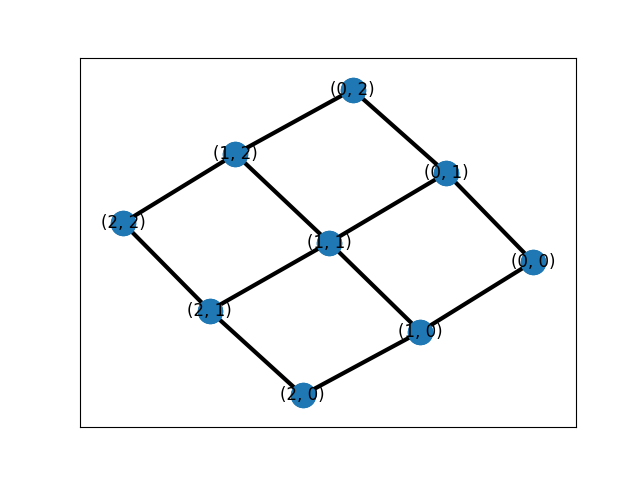
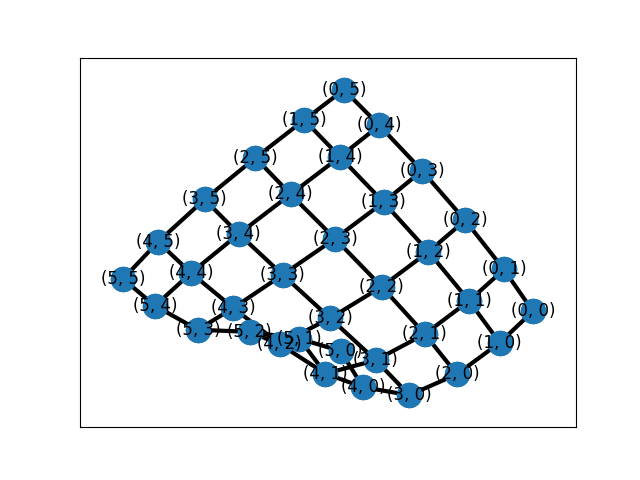
updating run_sim and started checking Murrays's and Kirchhoff's laws The sim makes every branch grow in the first step, next it starts pumping only the edges sticking to the source and sink

Changed region(s): [[0.1562, 0.1562, 0.875, 0.875]]

diff --git a/Angiogenesis.py b/Angiogenesis.py
@@ -170,38 +170,50 @@ def update_graph_data(graph):
             pass
 
 
-def run_simulation_A(incidence_inv, incidence_T, incidence_matrix, graph, source_list, pressure_list, length_list, conductivity_list, flow_list, pressure_diff_list, a, b, gamma, delta, flow_hat, c, r, dt, N):
+def checking_Murrays_law():
+    # Q = const * r^3
+    # r^3 = sum over cubes of radii of daughter branches
+    pass
+
+
+def checking_Kirchhoffs_law():
+    # 100 * |theoretical value - simulated value| / th. val. = diff. between theory and simulation in percents
+    # sum of flows = sum of sources = 0
+    pass
+
+
+def run_simulation_A(nodes_data, edges_data, incidence_inv, incidence_T, incidence_matrix, graph, source_list, pressure_list, length_list, conductivity_list, flow_list, pressure_diff_list, a, b, gamma, delta, flow_hat, c, r, dt, N):
     # solving diff eq
+    # without scaling factors
     t = 0
     for n in range(1, N+1):
-        condition = any(k < 0 for k in conductivity_list) # in the future I'll just delete the edges with K == 0 -- their radius is zero
-        if not False:
-            iter = 0
-            for e in graph.edges:
-                con_val = conductivity_list[iter]
-                #print(e, con_val)
-                if con_val <= 0:
-                    graph.remove_edge(*e)
-                    print(e, 'removed')
-                iter += 1
-            t = dt * n
-            # dK/dt = a*(exp(r*t/2)^(delta) * q / q_hat)^(2*gamma) - b * K + c
-            # flow_list is separated into its sign and value, because I don't want to get complex values
-            # the direction of the flow is maintained while its value changes
-            # the information about direction is not coded into graph, so I have to be careful here
-            # DELETING MINUS SIGN!!!!!!!!
-            dK = dt * (np.float_power(a * (np.exp(r*t*delta/2) * np.abs(flow_list) / flow_hat), (2 * gamma)) - b * conductivity_list + c)
-            conductivity_list += dK
-            x = incidence_matrix @ np.diag(1 / length_list) @ np.diag(conductivity_list) @ incidence_T
-            x_dagger = np.linalg.pinv(x)
-            # q = K/L * delta * (delta^T * K/L * delta)^dagger * S
-            flow_list = source_list @ (x_dagger @ incidence_matrix) @ np.diag(conductivity_list) @ np.diag(1 / length_list)
-            #pressure_diff_list = length_list * (1 / conductivity_list) * flow_list   # 1/conduct generates infinities when conduct approaches zero!!
-            #pressure_list = np.dot(pressure_diff_list, incidence_inv)
-            # updating data in graph dics
-            set_attributes(graph, pressure_list, length_list, conductivity_list, flow_list, pressure_diff_list)
-    print('simulation time: ', t, ' seconds')
 
+        # pruning implementation
+        iter = 0
+        for e in graph.edges:
+            con_val = conductivity_list[iter]
+            #print(e, con_val)
+            if con_val <= 0:
+                graph.remove_edge(*e)
+                print(e, 'removed')
+            iter += 1
+
+        t = dt * n
+        # dK/dt = a*(q / q_hat)^(2*gamma) - b * K + c                                                                #exp(r*t/2)^(delta) *
+        dK = dt * (np.float_power(a * (np.abs(flow_list) / flow_hat), (2 * gamma)) - b * conductivity_list + c)      # np.exp(r*t*delta/2) *
+        conductivity_list += dK
+        x = incidence_matrix @ np.diag(1 / length_list) @ np.diag(conductivity_list) @ incidence_T
+        x_dagger = np.linalg.pinv(x)
+        # q = K/L * delta * (delta^T * K/L * delta)^dagger * S
+        flow_list = source_list @ (x_dagger @ incidence_matrix) @ np.diag(conductivity_list) @ np.diag(1 / length_list)
+        pressure_diff_list = length_list * (1 / conductivity_list) * flow_list   # 1/conduct generates infinities when conduct approaches zero!!
+        pressure_list = np.dot(pressure_diff_list, incidence_inv)
+
+        # updating data in graph dics
+        set_attributes(graph, pressure_list, length_list, conductivity_list, flow_list, pressure_diff_list)
+
+    print('simulation time: ', t, ' seconds')
+    update_df(pressure_list, length_list, conductivity_list, flow_list, pressure_diff_list, nodes_data, edges_data)
 
 """
 def graph_data_to_lists(graph):

diff --git a/Simulation.py b/Simulation.py
@@ -4,7 +4,7 @@ import networkx as nx
 
 start_time = time.time()
 
-n = 3
+n = 6
 number_of_nodes = n*n
 adjacency_matrix = an.generate_random_adjacent_matrix(number_of_nodes)
 #incidence_matrix, graph, nodes_data, edges_data = generate_graph(adjacency_matrix)     # random graph
@@ -22,14 +22,12 @@ an.set_attributes(graph, pressure_list, length_list, conductivity_list, flow_lis
 an.update_df(pressure_list, length_list, conductivity_list, flow_list, pressure_diff_list, nodes_data, edges_data, first_time=True)
 pos = nx.spring_layout(graph)
 #pos_x = nx.multipartite_layout(graph, subset_key="layer")
-print(graph)
+
 an.draw_graph(graph, "graph", pos, conductivity_list)
 # dK/dt = a*(exp(r*t/2)^(delta) * q / q_hat)^(2*gamma) - b * K + c
-parameters_set = {'a': 1.1, 'b': 1.1, 'gamma': 1.1, 'delta': 1.1, 'flow_hat': 1.1, 'c': 10.1, 'r': 1.1, 'dt': 0.0001, 'N': 20000}
-an.run_simulation_A(**arguments, **parameters_set)
+parameters_set = {'a': 1.1, 'b': 1.1, 'gamma': 1.1, 'delta': 1.1, 'flow_hat': 1.1, 'c': 0.1, 'r': 1.1, 'dt': 0.1, 'N': 1}
+an.run_simulation_A(nodes_data, edges_data, **arguments, **parameters_set)
 #an.run_simulation_G(graph, **parameters_set)
 an.draw_graph(graph, "final_graph", pos, conductivity_list)
-print(graph)
-an.update_df(pressure_list, length_list, conductivity_list, flow_list, pressure_diff_list, nodes_data, edges_data)
 
 print("time elapsed: {:.2f}s".format(time.time() - start_time))
